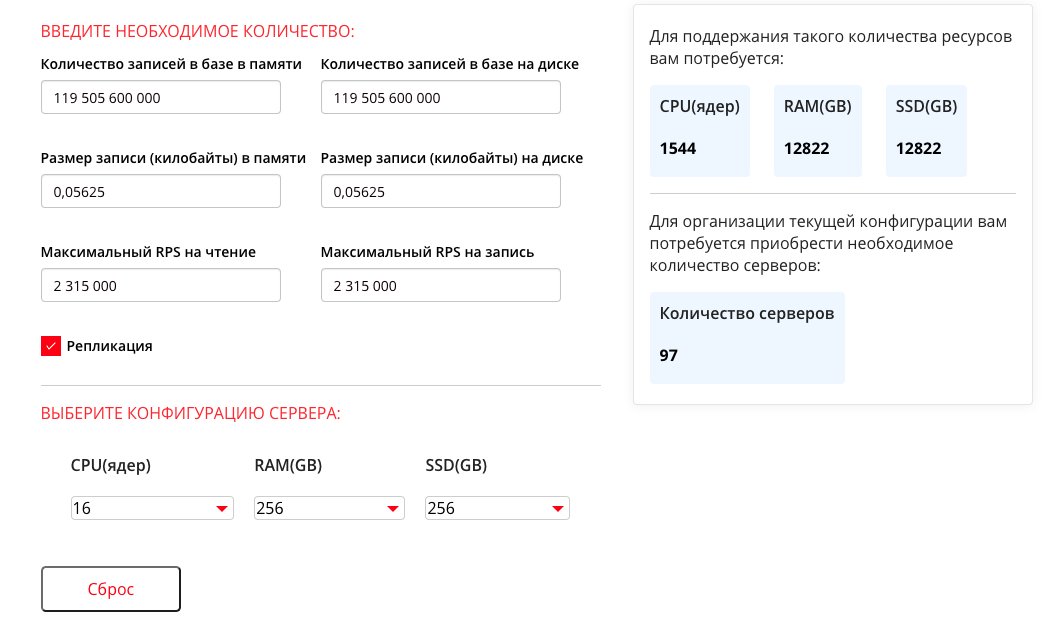
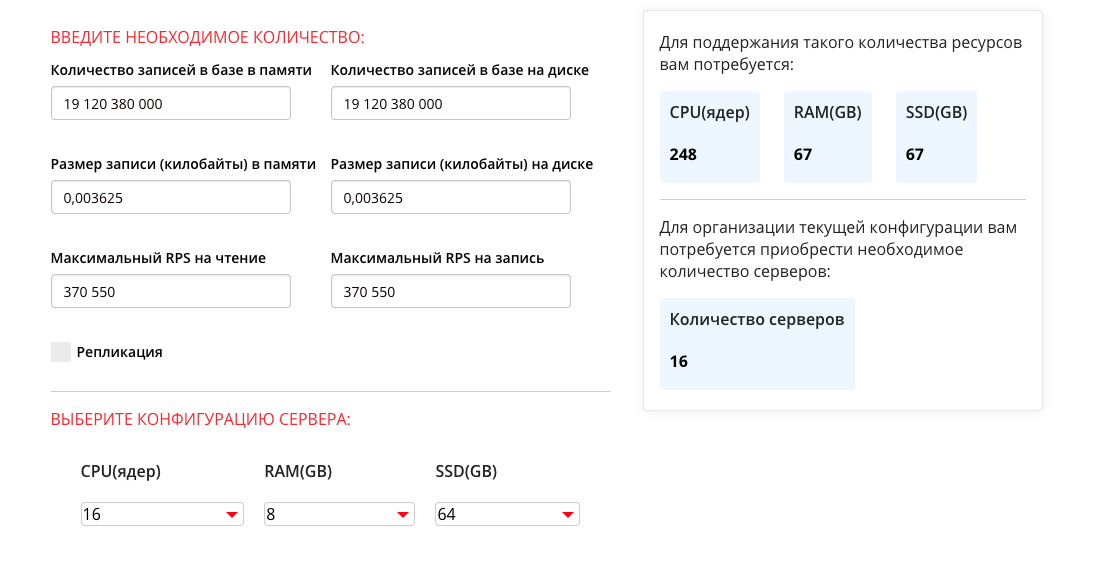
recount load on service, servers and DB_scheme updated

diff --git a/README.md b/README.md
@@ -38,15 +38,18 @@
 
 Участвовало 15 банков
 
-### Следовательно суммарная нагрузка на биржу за 2.5 часа нагрузочного тестирования
-
-В день:
+### Следовательно суммарная нагрузка на биржу за 2.5 часа (9000 секунд) нагрузочного тестирования
 
 |Транзакции|Заявки|Сделки|
 |----------|------|------|
 |522 058 763|269 974 995|9 368 033|
 
-В секунду:
+### Нагрузка в секунду в среднем:
+|Транзакции|Заявки|Сделки|
+|----------|------|------|
+|58 007|29 998|1041|
+
+### Максимальная нагрузка в секунду:
 
 |Транзакции|Заявки|Сделки|
 |----------|------|------|
@@ -57,34 +60,27 @@
  В отчете о нагрузочном тестировании оговаривается то, что реальная нагрузка в боевых условиях ниже, чем та, что была представлена в нагрузочном тестировании
 
 ## 3. Выбор планируемой нагрузки
-Будем считать, что нагрузка на биржу от каждого клиента в среднем одинакова. 
-
-В среднем при оценке нагрузки участвовало 16 банков. Следовательно с одного клиента приходилась нагрузка:
-
-В секунду:
+Будем считать, что нагрузка на биржу будет аналогична результатам максимальной нагрузки из нагрузочного тестирования. Следовательно наша нагрузка в секунду будет:
 
 |Транзакции|Заявки|Сделки|
 |----------|------|------|
-|18 732,5|4 147,19|279,625|
+|299 720|66 355|4 474| 
+
 
 Исходя из тех же результатов нагрузочного тестирования, по итогам рекомендуется использовать для обычного протокола канал в 10 Мбит/с 
 
 Зная нагрузку в секунду посчитаем приблизительный размер пакета:
 
 ```
-(10 x 1024 x 1024) / (18 732,5 + 4 147,19 + 279,625) ~ 450 бит
+(10 x 1024 x 1024) / (299 720 + 66 355 + 4 474) ~ 29 бит
 ```
 
-Будем расчитывать на нагрузку для [100 крупнейших банков Европы](https://www.invest-rating.ru/financial-forecasts/?id=7903)
-Тогда нагрузка в секунду будет:
-
-|Транзакции|Заявки|Сделки|
-|----------|------|------|
-|1 873 250|414 719|27 962,5| 
+Наш сервис будет обеспечивать [100 крупнейших банков Европы](https://www.invest-rating.ru/financial-forecasts/?id=7903)
+Расчет ведем от того, что эти 100 банков создают схожую нагрузку  на наш сервис, как и в нагрузочном тестировании. Рассчитаем нагрузку в секунду.  
 
 
 ```
-(1 873 250 + 414 719 + 27 962,5) x 450 = 1 042 169 175 бит/с = 1,04 Гбит/с
+(299 720 + 66 355 + 4 474) x 29 бит = 10 745 921 бит/с = 10,75 Мбит/с
 ```
 
 Исходя из [данных](https://www.moex.com/s223) максимальное время торгов 14 часов 20 минут (860 минут), тогда нагрузка в день со всех клиентов считается по формуле: 
@@ -92,11 +88,11 @@
 ```
 (Нагрузка в секунду) * 860 * 60
 
- 1,04 Гбит/с * 860 * 60 = 53 664 Гбит
+ 10,75 Мбит/с * 860 * 60 = 554 700 Мбит = 554,7 Гбит = 69,3 Гбайт 
  ```
  
 ## 4. Логическая схема Базы Данных
-![](./media/ExhangeDB.png)
+![](./media/DBScheme.png)
 
 ## 5. Физические системы хранения
 Выделим основные особенности нагрузки на СУБД Биржи: 
@@ -104,28 +100,49 @@
 - Часто читаем
 - Данные нельзя потерять
 - Задержка должна быть минимальной
+- Аналитические запросы к большому объему данных прошедших торгов
+- Аналитические запросы для построения стакана и изменения стоимости для текущих торгов
 
 Так как мы часто пишем и читаем - нам подойдет обычная SQL СУБД. Возьмем Postgres 12, так как она хорошо поддерживается сообществом, имеет хороший встроенный механизм репликации, а также хорошие инструменты шардинга (например Postgres XL). 
 
-Также во время торгов нам нужно обеспечить минимальную задержку. Для этого мы будем использовать in-memory хранилище tarantool, в котором будем хранить данные **только текущих торгов**, так как это одни из самых "горячих" данных данного сервиса.
+Также во время торгов нам нужно обеспечить минимальную задержку. Для этого мы будем использовать in-memory хранилище tarantool, в котором будем хранить **данные текущих торгов и данные необходимые для текущей торговли**, так как это одни из самых "горячих" данных данного сервиса.
 
-Из плюсов мы получим довольно быстрый ответ от бд, с другой стороны нам нужно сделать две операции записи - в tarantool и в Postgres. Либо же производить обновление данных в Postgres на основе данных из Tarantool во время, когда торгов нет. 
+Чтобы обеспечить возможность аналитические запросов для построения стакана и изменения стоимости для текущих торгов - будем дублировать эти данные из таблиц Postgres в специальные таблицы Tarantool, для того, чтобы не делать аналитические запросы в Postgres. 
 
-Так как объем данных довольно большой - нужно подумать о том, как мы будем шардить наши данные между серверами СУБД. Шардинг будем производить с помощью хеш-функции от имени банка, совершающего операцию и количества серверов, что позволит нам распределить наши данные равномерно по серверам и не переполнить шарды. 
+Благодаря этому, мы получаем избыточные данные, но при этом большой прирост в скорости. Вывод - данное решение имеет смысл, так как решает нашу задачу минимальными усилиями. 
 
-Ото всех клиентов нагрузка будет (из таблицы транзакции, сделки и заказы в секунду): 
+**Схематичное разделение между базами данных:**
+
+![](./media/PhysDBScheme.png) 
+
+
+**Синий -** Postgres
+
+**Красный -**  Tarantool
+
+
+### Шардинг
+Так как объем данных довольно большой - нужно подумать о том, как мы будем шардить наши данные между серверами СУБД. 
+
+#### Tarantool
+Шардинг будем производить с помощью хеш-функции от инструмента, количества операций с ним и количества серверов, что позволит нам распределить наши данные равномерно по серверам и не переполнить шарды. При этом крупные инструменты будут храниться на отдельных шардах (например акции Лукойл), а акции к которым мало запросов - вместе с другими такими же акциями. Информацию о стакане будем хранить на том же шарде, что и инструмент, что позволит формировать аналитический ответ быстро. 
+
+#### Postgres
+Postgres играет роль долговременного хранилища. В Postgres мы храним все пользовательские операции, историю торговли инструментом, его конечную цену и прочее. На основе торгов в Tarantool мы формируем данные для Postgers и вставляем их после торгового дня. 
+
+Здесь шардинг будет с помощью хеш-функции от пользователя, количества его операций и количества серверов. Также, так как данные о торгах по итогу дня малы, то мы можем выделить для этого отдельный шард. 
+
+### Нагрузка 
+Ото всех клиентов нагрузка будет (из таблицы транзакции, сделки и заказы в секунду) будет нагрузка: 
 
 ```
-1 873 250 + 414 719 + 27 962,5 = 2 315 931,5 RPS
+299 720 + 66 355 + 4 474 = 370 550 RPS
 ```
 
-Пусть в среднем на один сервер будет приходиться 5000 RPS, тогда нам понадобиться: 
+###  Репликация
+Для Tarantool, изучив [документацию по реплицкации](https://www.tarantool.io/ru/doc/latest/book/replication/repl_architecture/) будем использовать репликацию **master - master** так как мы много читаем и пишем в базу.
 
-```
-2 315 931,5 RPS / 5000 RPS = 464
-```
-
-464 сервера с Postgers 12. Для каждого сервера Postgres добавим по одной реплике, чтобы не потерять данные в случае отказа. С реплик будем читать, а на матера писать. Что дает нам еще плюс 464 сервера. Итого нам понадобиться 928 серверов для хранения и работы с данными. 
+Для Postgres будем использовать репликацию **master-slave**, так как из данной базы мы будем больше читать, чем писать. Следовательно пишем на мастер сервер, а читаем со слейв серверов. 
 
 ## 6. Выбор прочих технологий: языки программирования, фреймворки, протоколы взаимодействия, веб-сервера и т.д.
 
@@ -143,12 +160,9 @@
 ### Backend
 Наш бэкенд будет иметь микросервисную архитектуру. Это позволит нам без особых усилий масштабировать конкретный сервис, а не всю систему. Также если упадет один из сервисов - не упадает вся система. Главной причиной почему нам необходимо использовать микросервисную архитектуру - это возможность разработки сервисов на разных языках. 
 
-Сервис торгов должен давать максимальную производительность, следовательно нам нужен однозначный контроль ресурсов для данного сервиса. Значит мы не можем выбирать языки с Garbage Collector. Нашим выбором для него будет однозначно язык C++. Разработка на С++ дорога и сложна. 
-
-Поэтому для остальных сервисов мы будем использовать язык Golang, так он специально разрабатывался как язык для написания серверов. Имеет встроенный механизм горутин, позволяющий нам просто и эффективно писать код. Также встроенный кодстайл "из коробки", который нам будет полезен в командной разработке. 
+Для разработки сервисов мы будем использовать язык Golang, так он специально разрабатывался как язык для написания серверов. Имеет встроенный механизм горутин, позволяющий нам просто и эффективно писать код. Также встроенный кодстайл "из коробки", который нам будет полезен в командной разработке. 
 
 **Технологии**
-- С++
 - Golang
 - Микросервисная архитектура
 
@@ -178,65 +192,92 @@
 
 Нагрузка на фронтенд сервера будет сравнительно небольшой, так как мы обслуживаем 100 банков, то нагрузка на такие сервера будет минимальна, поэтому сервера с фронтендом можно объединить с балансировочными серверами, так как на обоих серверах за работу будет отвечать nginx.
 
-Исходя из [документации nginx](https://www.nginx.com/blog/testing-the-performance-of-nginx-and-nginx-plus-web-servers/) можно сделать вывод, что для балансировки ~ 2,316 млн RPS (сумма запросов от сделок + запросы на получение фронтенд (сборка фронтенда с учетом минификации и сжатия не превышает 2 Мбайта)) по HTTPS нам потребуется 3 сервера данной конфигурации:
+Исходя из [документации nginx](https://www.nginx.com/blog/testing-the-performance-of-nginx-and-nginx-plus-web-servers/) можно сделать вывод, что для балансировки ~ 400 000 RPS (сумма запросов от сделок + запросы на получение фронтенд (сборка фронтенда с учетом минификации и сжатия не превышает 2 Мбайта)) по HTTPS нам потребуется 2 сервера данной конфигурации:
 
 |CPUs|Memory|SSD|
 |-|-|-|
-|32|16 Gbs|256 Gbs|
+|4|16 Gbs|128 Gbs|
 
-Сделаем 25% запас мощности и возьмем 4 сервера данной конфигурации.
+Сделаем 25% запас мощности и возьмем 3 сервера данной конфигурации.
 
 ### Бэкенд сервера
 
-На наш бэкенд однозначно будет нагрузка на сервис с транзакциями 2,315 млн RPS + приблизительно столько же остальных запросов на другие сервисы (аналитические запросы и тд). 
+На наш бэкенд однозначно будет нагрузка на сервис с транзакциями 370 550 RPS + приблизительно столько же остальных запросов на другие сервисы (аналитические запросы и тд). 
 
-Так как запросы в основном подразумевают запросы от бэкенда к базам данных, то будем считать, что на бэкенд сервера приходится приблизительно такая же нагрузка, как и на базы данных - 5000 RPS. Тогда на 4,63 млн RPS нам понадобится 
+Так как запросы в основном подразумевают запросы от бэкенда к базам данных, то будем считать, что на бэкенд сервера приходится приблизительно такая же нагрузка, как и на базы данных - 5000 RPS. Тогда на 741 100 RPS нам понадобится 
 
 ```
-4 630 000 RPS / 5000 RPS = 926 серверов
+741 100 RPS / 5000 RPS = 149 серверов
 ```
 
-Возьмем сервера с 25% запасом 1158 серверов. Для данных серверов важен процессор и объем оперативной памяти. Тогда возьмем сервера следующей конфигурации:
+Возьмем сервера с 25% запасом 187 серверов. Для данных серверов важен процессор и объем оперативной памяти. Тогда возьмем сервера следующей конфигурации:
 
 |CPUs|Memory|SSD|
 |-|-|-|
-|32|32 Gbs|128 Gbs| 
+|32|32 Gbs|64 Gbs| 
 
 ### Сервера для баз данных 
 #### Tarantool
 На сервере tarantool мы храним только данные торгов текущего дня. Следовательно получаем, что в день у нас 
 
 ```
-2 315 931,5 запросов x 860 x 60 (время торгов) ~ 119 505 600 000 запросов в день 
+370 550 RPS x 860 x 60 (время торгов) ~ 19 120 380 000 запросов в день 
 ```
 
-Вес одного запроса, как мы считали ранее, 450 бит = 0,05625 Кбайт. Воспользуемся [калькулятором](https://www.tarantool.io/ru/sizing_calculator/) Tarantool для расчетов c учетом репликации.
+Вес одного запроса, как мы считали ранее, 29 бит = 0,003625 Кбайт. Воспользуемся [калькулятором](https://www.tarantool.io/ru/sizing_calculator/) Tarantool для расчетов c учетом репликации.
 
 ![](./media/Tarantool.png)  
 
-Исходя из этих данных возьмем с запасом 25% 60 серверов данной конфигурации: 
+В данной конфигурации RAM и SSD уже взяты с > 25% запасом. Возьмем CPU с запасом, тогда нам понадобится 16 серверов. С учётом 2х реплик.
+
+```
+16 * 3 = 48 серверов
+``` 
+
+Возьмем сервера данной конфигурации: 
 
 |CPUs|Memory|SSD|
 |-|-|-|
-|32|512 Gbs|512 Gbs|
+|16|16 Gbs|128 Gbs|
 
 При этом оперативная память и ssd взять с 2х кратным запасом для обеспечения пропускной способности оборудования при высоких нагрузках и для более долгого срока службы серверов. 
 
 #### Postgres
 
-В день на наш сервис приходит 53 664 Гбит = 6708 Гбайт данных. Добавим в SLA соглашение о том, что подробные данные о торгах будут храниться 10 лет. Тогда для хранения нам понадобиться: 
+В день на наш сервис приходит 69,3 Гбайт данных. Добавим в SLA соглашение о том, что подробные данные о торгах будут храниться 10 лет. Тогда для хранения нам понадобиться: 
 
 ```
-6708 Гбайт x 366 дней (берем с запасом по дням) x 10 = 24 551 280 Гбайт данных
+69,3 Гбайт x 366 дней (берем с запасом по дням) x 10 = 253 638 Гбайт данных
 ``` 
 
-На SSD будем хранить только данные за 1 год (2 455 128 Гб), а после данные будут становиться "архивными" и будут храниться на HDD. 
+Тогда для обеспечения хранения данных на серверах с 4096 Gbs SSD  нам потребуется  ~ 62 серверов с запасом. 
 
-Тогда для обеспечения хранения данных на серверах с 4096 Gbs SSD и 40Tbs HDD нам потребуется  ~ 600 серверов с запасом. С учетом расчета 464 сервера из пункта с Базами Данных берем 1200 (c учетом реплик) серверов данной комплектации, обеспечивая > 25% запаса производительности. 
+Ото всех клиентов нагрузка из **п.5** 370 550 RPS. Пусть в среднем на один сервер будет приходиться в среднем 5000 RPS, тогда нам понадобиться: 
 
-|CPUs|Memory|SSD|HDD|
-|-|-|-|-|
-|8|16 Gbs|4096Gbs|40Tbs| 
+```
+370 550 RPS / 5000 RPS = 75 серверов
+```
+
+Возьмем по большему количеству. 75 серверов. С учетом 25% запаса 94 сервера. 
+
+На каждый master сервер будет приходиться 2 slave сервера. Тогда всего 
+```
+94 * 3 = 282 сервера
+```
+
+Конфигурация сервера:
+
+|CPUs|Memory|SSD|
+|-|-|-|
+|8|16 Gbs|4096 Gbs|
+
+### Итоговая таблица
+|Сервер|Количество|CPUs|Memory|SSD|
+|-|-|-|-|-|
+|Фронтенд + балансировка|3|4|16 Gbs|128 Gbs|
+|Бэкенд|187|32|32 Gbs|64 Gbs| 
+|Tarantool|16|16|16 Gbs|128 Gbs|
+|Postgres|282|8|16 Gbs|4096 Gbs|
 
 ## 8. Выбор хостинга / облачного провайдера и расположения серверов
 
@@ -246,15 +287,19 @@
 
 Так как нас интересует минимальное время ответа - то постараемся покрыть серверами Европейский регион, где находятся наши клиенты. Следовательно нужно покрыть Западную, Центральную и Восточную Европу. 
 
-Для этого возьмем сервера в дата-центрах: 
-- Лондон
-- Париж
-- Франкфурт
-- Стокгольм
+Особенность биржи заключается в том, что датацентры должны находиться рядом для быстрого формирования ответов и быстрого обновления. Для обеспечения всей Европы с помощью одного датацентра возьмем сервера во **Франкфурте** в каждой из трех серверных зон. Данное место обеспечено тем, что эти датацентры равноудалены в среднем от каждой их точек Западной, Центральной и Восточной Европы. 
 
 В каждом регионе сервера будем брать из разных зон доступности, чтобы обеспечить отказоустойчивость в случае падения одного из дата-центров.
 
 Также мы сразу "из коробки" получаем [защиту от DDoS аттак](https://aws.amazon.com/ru/shield/?whats-new-cards.sort-by=item.additionalFields.postDateTime&whats-new-cards.sort-order=desc) и [Kubernetes](https://aws.amazon.com/ru/kubernetes/) для оркестрации наших микросервисов на бэкенде
+
+### Итоговая таблица по распределению серверов
+|Сервер|Количество|Датацентр|Количество в зоне 1|Количество в зоне 2|Количество в зоне 3|
+|-|-|-|-|-|-|
+|Фронтенд + балансировка|3|Франкфурт|1|1|1|
+|Бэкенд|187|Франкфурт|62|62|63|
+|Tarantool|48|Франкфурт|16 (master 1)|16 (master 2)|16 (master 3)|
+|Postgres|282|Франкфурт|94 (master)|94 (slave 1)|94 (slave 2)|
 
 ## 9. Схема балансировки нагрузки
 Балансировку нагрузки буде производить на уровне L7 с помощью алгоритма "Взвешенный Round Robin" это позволит сделать равномерную нагрузку на все сервера с учётом их производительности. 
@@ -278,7 +323,7 @@
 
 **Backend** 
 
-Отказоустойчивость здесь обеспечивает микросервсивная архитектура - так как здесь нет единой точки отказа, то весь наш сервис не упадет и продолжит функционировать, пока восстанавливается упавший сервис. 
+Отказоустойчивость здесь обеспечивает распределение сервисов на разные сервера - здесь нет единой точки отказа, следовательно  весь наш сервис не может упасть единовременно. В случае падения одного из сервисов продолжит функционировать с ограниченной функциональностью (в худшем случае), пока восстанавливается упавший сервис. 
 
 **База данных**
 
